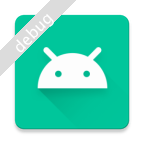
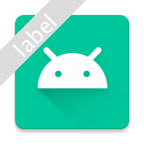
Update Readme

Changed region(s): [[0.0, 0.0, 0.6111, 0.6111]]

diff --git a/README.md b/README.md
@@ -106,8 +106,8 @@ easylauncher {
 | `blueRibbonFilter()` | ![](icons/blueRibbon.png) |
 | `grayscaleFilter()` | ![](icons/grayscale.png) |
 | `customColorRibbonFilter("#6600CC")` | ![](icons/customColorRibbon.png) |
-| `customColorRibbonFilter("debug", "#DCDCDC")` | ![](icons/customColorRibbon2.png) |
-| `customColorRibbonFilter("debug", "#DCDCDC", "#000000")` | ![](icons/customColorRibbon3.png) |
+| `customColorRibbonFilter("label", "#DCDCDC")` | ![](icons/customColorRibbon2.png) |
+| `customColorRibbonFilter("label", "#DCDCDC", "#000000")` | ![](icons/customColorRibbon3.png) |
 | `overlayFilter(new File("example-custom/launcherOverlay/beta.png"))` | ![](icons/overlay.png) |
 
 
